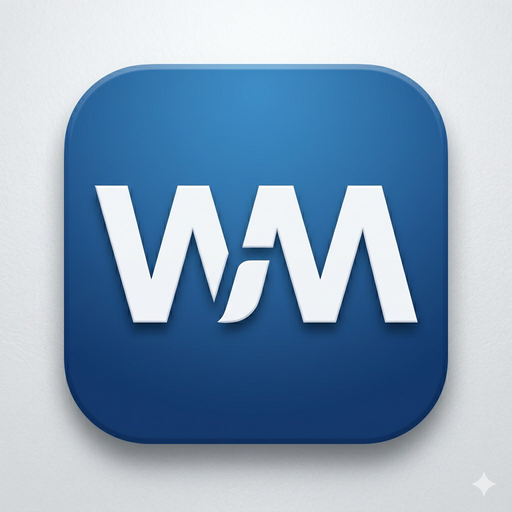
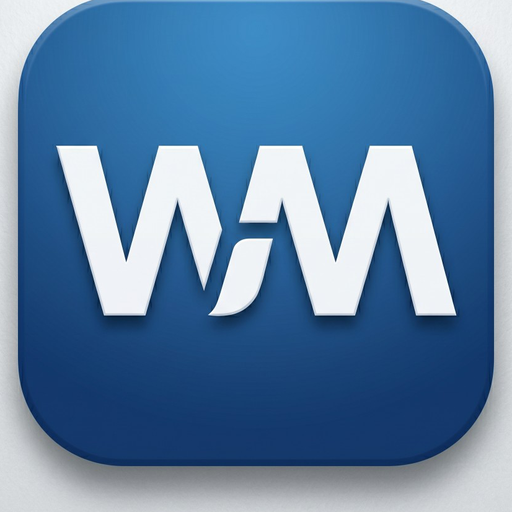
fix: PWA 아이콘 배경 flood-fill 제거로 런처 여백 완화

diff --git a/sw.js b/sw.js
@@ -1,4 +1,4 @@
-const CACHE = "workmate-pwa-v4";
+const CACHE = "workmate-pwa-v5";
 
 const PRECACHE_URLS = [
   "/index.html",

diff --git a/scripts/trim_icon.py b/scripts/trim_icon.py
@@ -1,0 +1,69 @@
+"""
+PWA 아이콘: 배경(회색/밝은 여백) 제거 후 정사각형으로 리사이즈.
+모서리에서 BFS로 연결된 배경만 제거해 파란 스쿼클+WM이 꽉 차게 만든다.
+"""
+from __future__ import annotations
+
+import sys
+from collections import deque
+
+import numpy as np
+from PIL import Image
+
+
+def flood_background_mask(rgb: np.ndarray, tol: float = 42.0) -> np.ndarray:
+    """(0,0)과 색이 비슷하고 연결된 영역을 배경으로 마킹."""
+    h, w = rgb.shape[:2]
+    start = rgb[0, 0].astype(np.float32)
+    bg = np.zeros((h, w), dtype=bool)
+    visited = np.zeros((h, w), dtype=bool)
+    q: deque[tuple[int, int]] = deque([(0, 0)])
+
+    while q:
+        y, x = q.popleft()
+        if visited[y, x]:
+            continue
+        visited[y, x] = True
+        if np.linalg.norm(rgb[y, x].astype(np.float32) - start) > tol:
+            continue
+        bg[y, x] = True
+        for dy, dx in ((0, 1), (0, -1), (1, 0), (-1, 0)):
+            ny, nx = y + dy, x + dx
+            if 0 <= ny < h and 0 <= nx < w and not visited[ny, nx]:
+                q.append((ny, nx))
+    return bg
+
+
+def main() -> None:
+    src = sys.argv[1] if len(sys.argv) > 1 else r"c:\Users\hanse\Desktop\cap\icons\icon-512.png"
+    out512 = r"c:\Users\hanse\Desktop\cap\icons\icon-512.png"
+    out192 = r"c:\Users\hanse\Desktop\cap\icons\icon-192.png"
+
+    im = Image.open(src).convert("RGBA")
+    a = np.array(im)
+    rgb = a[:, :, :3]
+
+    bg = flood_background_mask(rgb, tol=42.0)
+    fg = ~bg
+
+    ys, xs = np.where(fg)
+    if ys.size == 0:
+        raise SystemExit("foreground empty")
+
+    y0, y1 = int(ys.min()), int(ys.max())
+    x0, x1 = int(xs.min()), int(xs.max())
+    crop = im.crop((x0, y0, x1 + 1, y1 + 1))
+
+    cw, ch = crop.size
+    side = min(cw, ch)
+    l = (cw - side) // 2
+    t = (ch - side) // 2
+    crop = crop.crop((l, t, l + side, t + side))
+
+    crop.resize((512, 512), Image.Resampling.LANCZOS).save(out512, "PNG")
+    crop.resize((192, 192), Image.Resampling.LANCZOS).save(out192, "PNG")
+    print("saved", out512, out192, "from square", side)
+
+
+if __name__ == "__main__":
+    main()
